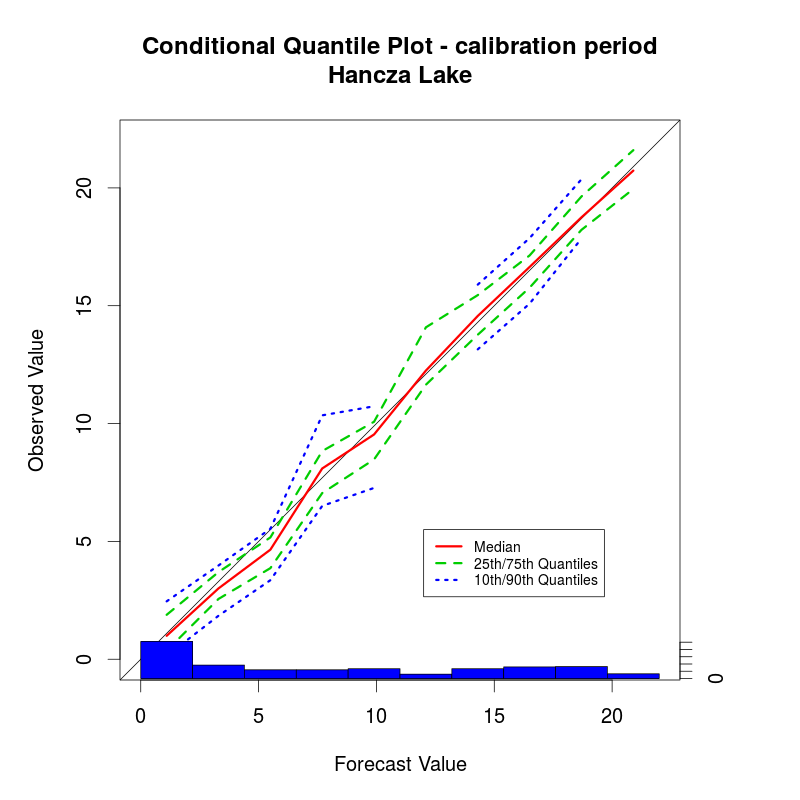
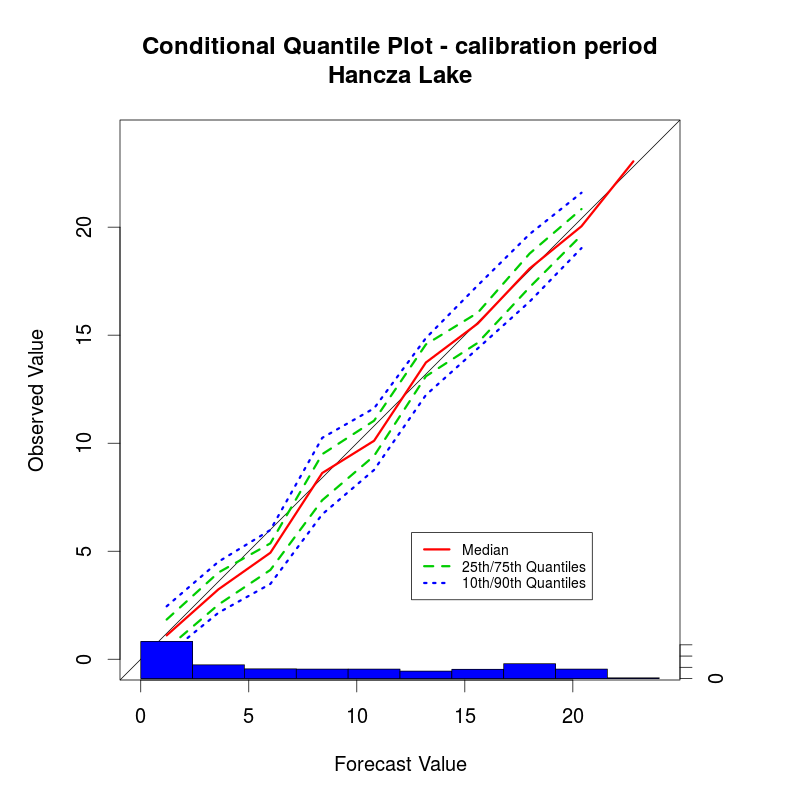
verification update

diff --git a/README.md b/README.md
@@ -1,18 +1,10 @@
 # air2water
 
-The problem with running air2water model beyond calibration period...
+Some diagnostic plots obtained with the code included in the file verify.R:
 
-Model shows almost no skill in simulating lake surface water temperature (LSWT) after year 2000 (2001-2015 set as validation period)
+Lake Hancza - Calibration - (1972-2015) - looks good...
+![Lake Hancza - Calibration - (1972-2015) - looks good](hancza_calibration.png)
 
-Simulation input and output files provided in folders entitled with the name of lakes (Lubie, Studzieniczne, Charzykowskie, Mikolajskie, Gardno, Selmet, Hancza, Selmet.Wielki, Sepolenskie, Jeziorak, Slawskie)
-
-Input parameters established with the provided Matlab code according to the mean depth of lake (as given in the pre_processing folder)
-
-Below some diagnostic plots obtained with the code included in the file verify.R:
-
-Lake Hancza - Calibration - (1972-2000) - looks good
-![Lake Hancza - Calibration - (1972-2000) - looks good](hancza_calibration.png)
-
-Lake Hancza - Validation - (2001-2015) - almost no skill
-![Lake Hancza - Validation - (2001-2015) - almost no skill](hancza_validation.png)
+Lake Hancza - Validation - (2001-2015) - .. still good :)
+![Lake Hancza - Validation - (2001-2015) ](hancza_validation.png)
 
